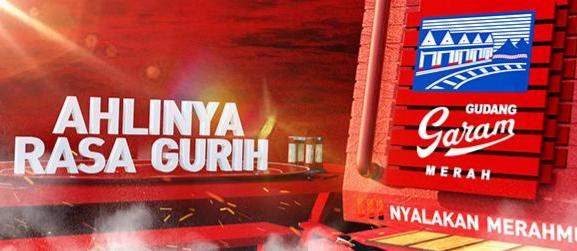
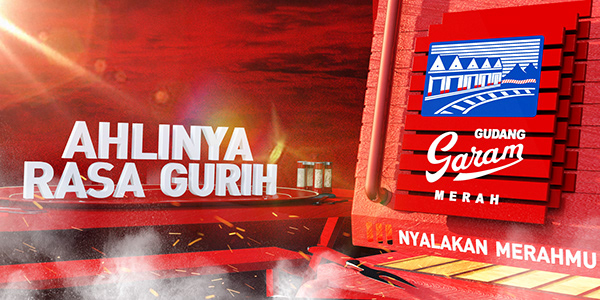
[EDIT} file index.html

diff --git a/web-css/index.html b/web-css/index.html
@@ -24,15 +24,24 @@
         <!--Banner-->
         <!-- ISI -->
          <div class="isi">
-            <h2>Sejarah Berkembangnya Gudang Garam</h2>
-            <p class="penulis">Oleh ~ <a herf="#">Shevandro A.W</a>24 September 2026</p>
+            <h2>Sejarah PT Gudang Garam Tbk</h2>
+            <p class="penulis">oleh ~<a herf="#">Shevandro A.W</a> 24 September 2026</p>
         <p>Lorem ipsum dolor, sit amet consectetur adipisicing elit. Repudiandae dolores perspiciatis impedit? Ut, non possimus modi, aliquam porro voluptatum rem, id quis nostrum voluptatibus consectetur. Corporis obcaecati illum recusandae impedit!
         Unde aliquid corporis, quidem nulla eaque laboriosam. Quaerat necessitatibus ab, placeat magni sint nulla nobis praesentium neque dolorum, iusto at voluptatibus deleniti possimus corrupti, temporibus autem exercitationem eum laboriosam similique?</p>
 
         <p>Lorem ipsum dolor sit amet, consectetur adipisicing elit. Natus error odio laudantium ducimus accusamus ipsa totam. Facilis dolor quod fugit libero illo, provident, consequuntur cupiditate velit sit quaerat dolores atque?
         Debitis quidem voluptatem excepturi dolores explicabo? Ipsum dicta numquam architecto corporis voluptatibus quos soluta accusantium laborum fugit quis cum illo placeat, iusto eos incidunt sed? Sequi vel ad libero doloremque.</p>
-         </div>
+
+        <p>Lorem, ipsum dolor sit amet consectetur adipisicing elit. Ex tempore illo, suscipit iste ea eum? Nulla, inventore repellat? Totam, sunt vitae maiores iusto dolor beatae earum necessitatibus placeat recusandae quia?
+        Id, eos repellat dicta voluptate itaque accusamus sit fugiat repellendus ad enim commodi numquam eum similique, quibusdam debitis et veritatis, magni non. Sed culpa officia sint facilis consequatur a velit!
+        Porro, doloribus quaerat veniam non nulla nemo velit ullam repellendus qui magnam aspernatur eum consequuntur iure tenetur eius quo, aliquid ex beatae necessitatibus! Quod quidem perspiciatis laboriosam excepturi vel cum.</p>
+        </div>
          <!-- ISI -->
+          <!--Footer-->
+          <div class="footer">
+            <p class="copyright">Created with : Shevandro A.W 2026</p>
+          </div>
+          <!--Footer-->
     </div>
 </body>
 </html>

diff --git a/web-css/css/style.css b/web-css/css/style.css
@@ -8,7 +8,7 @@ body {
 .container {
     width: 800px;
     margin: auto;
-    background-color: rgb(236, 236, 236);
+    background-color: rgb(240, 238, 238);
 }
 
 /* mengatur jarak dalam header */
@@ -58,7 +58,49 @@ header {
     height: 300px;
     background-image: url(img/banner.jpg);
     background-size: cover;
-    background-position: 0px -150px;
+/* Background position : mengatur posisi gambar */ 
+    background-position: 1px -70px;
     border-top: 5px solid rgb(0, 0, 0);
     border-bottom: 5px solid skyblue;
+}
+
+/* Isi */
+.isi {
+    padding: 20px;
+}
+
+.isi h2 {
+    font-size: 25px;
+    font-weight: bold;
+}
+
+.isi .penulis {
+    font-size: 12px;
+    font-style: italic;
+    /* agar naik */
+    margin-top: -10px;
+}
+
+.isi .penulis a {
+    text-decoration: none;
+    color: rgb(60, 138, 168);
+}
+
+.isi p {
+    font-size: 16px;
+    text-align: justify;
+    color:rgb(0, 0, 0);
+}
+
+/* Footer */
+.footer {
+    background-color: rgb(255, 0, 0);
+    height: 50px;
+    padding: 2px;
+}
+
+.footer .copyright {
+    font-size: 14px;
+    color: white;
+    text-align: center;
 }
